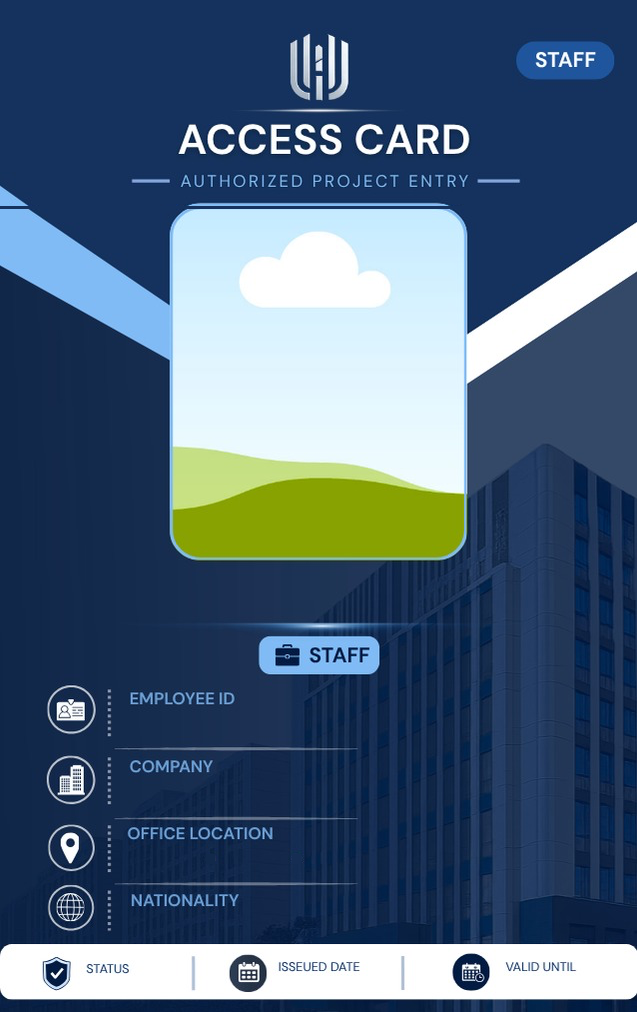
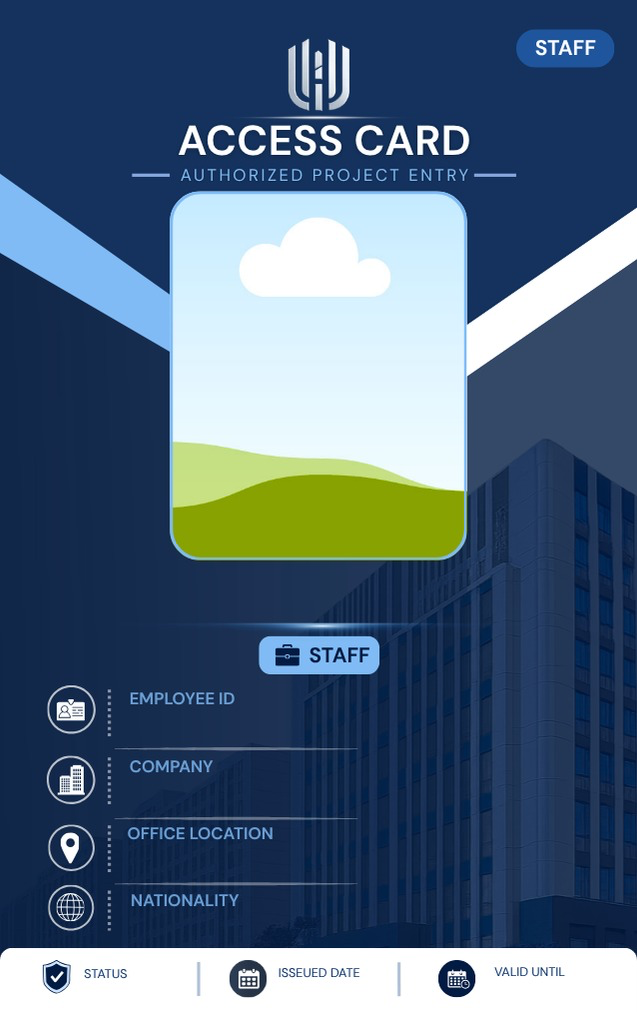
Apply refreshed role artwork to ID card background templates

diff --git a/frontend/src/utils/cardPrint.js b/frontend/src/utils/cardPrint.js
@@ -5,9 +5,9 @@ const fmtUp = (d) => fmt(d).toUpperCase();
 
 /* ── Template definitions — maps role → card image + overlay colours ── */
 const TEMPLATES = {
-  Staff:      { key:"Staff",      img:"/id-card/IT_STAFF1.png?v=9",    panelBg:"#0c1a30", footBg:"#07101e", photoBorder:"#80bbf5" },
-  Supervisor: { key:"Supervisor", img:"/id-card/supervisor1.png?v=9",  panelBg:"#091e19", footBg:"#05120d", photoBorder:"#55c8be" },
-  Manager:    { key:"Manager",    img:"/id-card/manager1.png?v=9",     panelBg:"#110826", footBg:"#090518", photoBorder:"#b775fb" },
+  Staff:      { key:"Staff",      img:"/id-card/IT_STAFF1.png?v=10",    panelBg:"#0c1a30", footBg:"#07101e", photoBorder:"#80bbf5" },
+  Supervisor: { key:"Supervisor", img:"/id-card/supervisor1.png?v=10",  panelBg:"#091e19", footBg:"#05120d", photoBorder:"#55c8be" },
+  Manager:    { key:"Manager",    img:"/id-card/manager1.png?v=10",     panelBg:"#110826", footBg:"#090518", photoBorder:"#b775fb" },
 };
 
 const TEMPLATE_RULES = [
